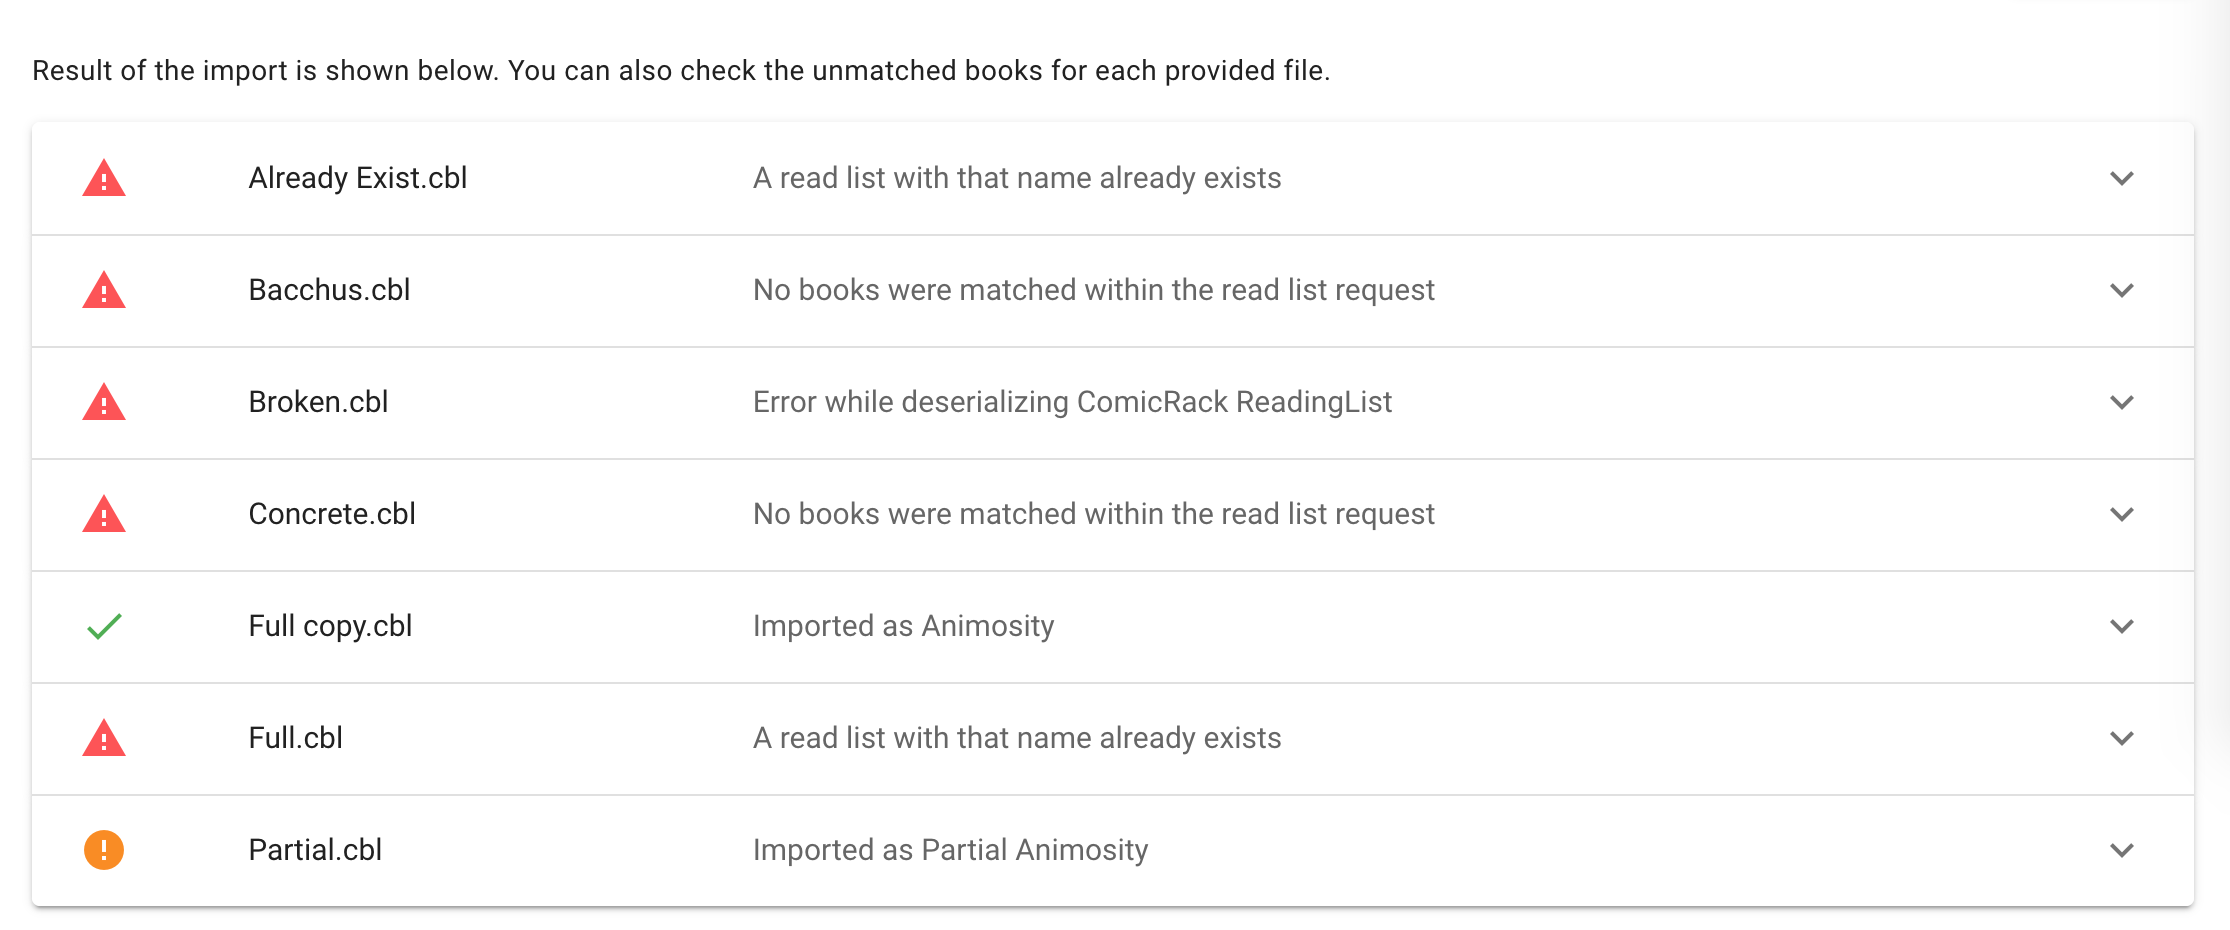
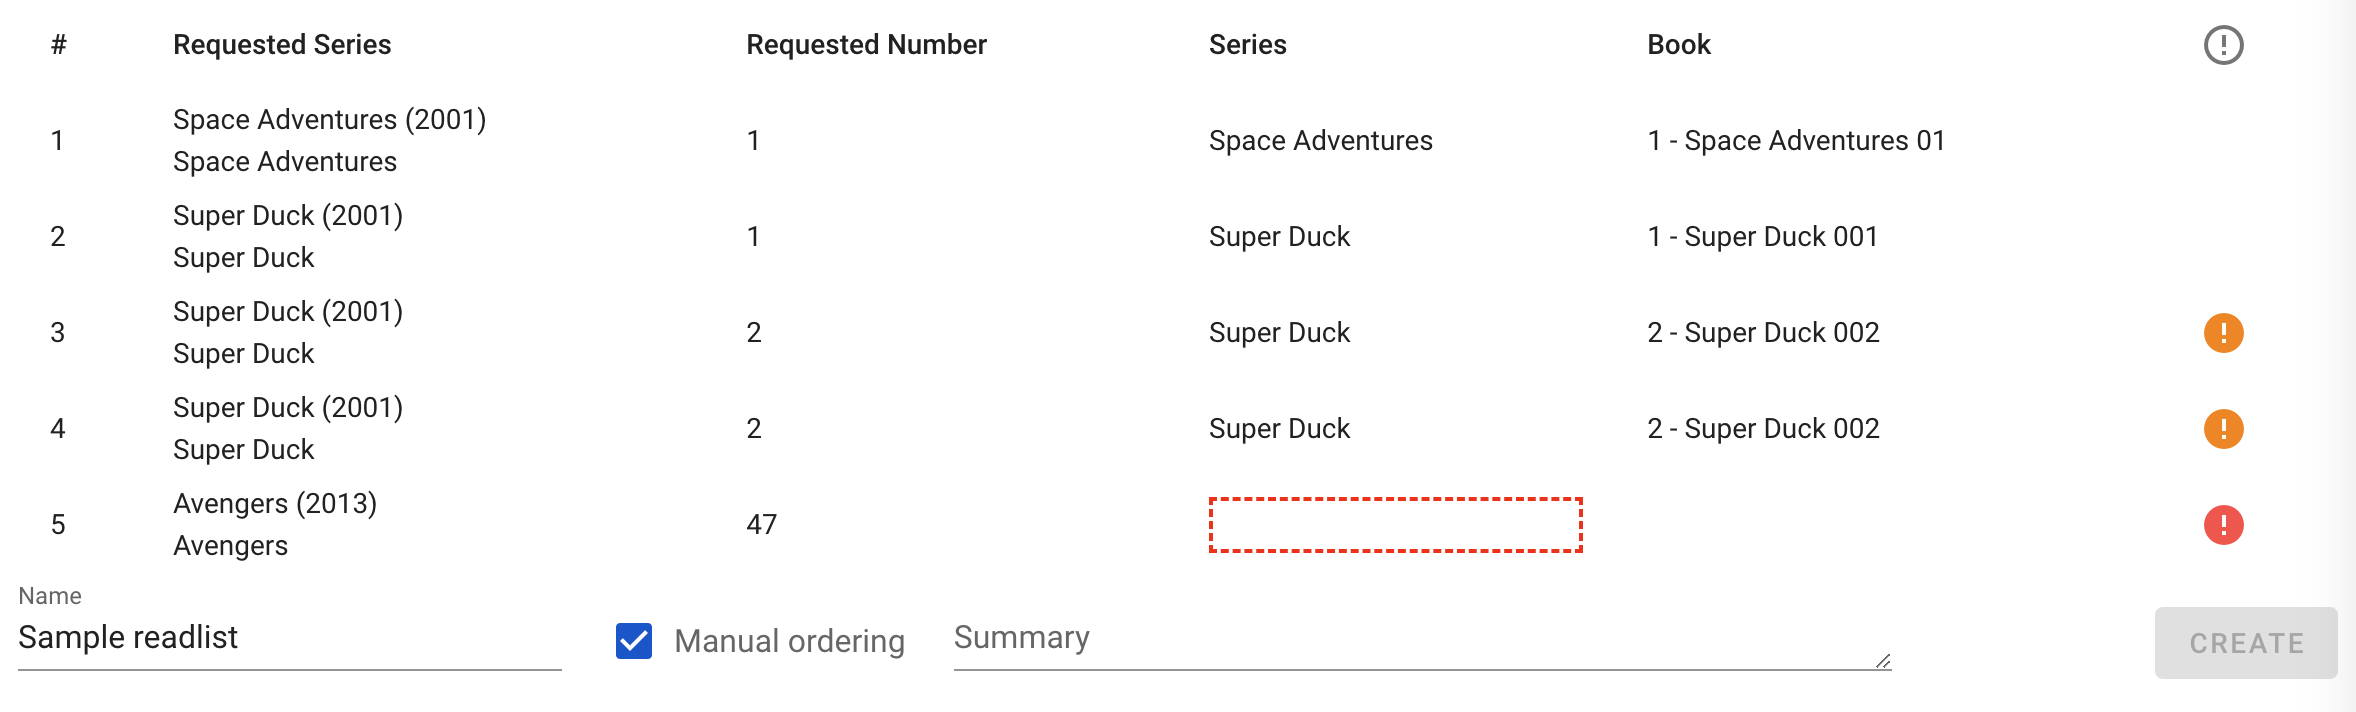
docs: update read list import

diff --git a/src/guides/readlists.md b/src/guides/readlists.md
@@ -83,9 +83,7 @@ This will not delete the items in the read list, nor your media files.
 
 ## Import read lists from ComicRack
 
-You can import ComicRack reading lists in `.cbl` format from the _Import > Read Lists_ screen.
-
-Select multiple files to import them all at once.
+You can import ComicRack reading lists in `.cbl` format from the _Import > Read List_ screen.
 
 <img src="/assets/media/guides/readlists/import.png" style="vertical-align: middle;max-height:400px" />
 
@@ -99,16 +97,13 @@ Select multiple files to import them all at once.
     - number of that book in the series
 
 Komga will try to match each book in the list in the following way:
-- check if a read list with that name already exists
-- since Komga does not have a `volume` metadata field, it will apply the [same transformation](/guides/scan-analysis-refresh.md#series-metadata) as when importing data from `ComicInfo.xml`
-- it will try to find a unique series by name
-- if a unique series is found, it will try to find a unique book in that series by book number
-- if a unique book is found, it will be added to the read list
+- part of a series named `Series` or `Series (Volume)`
+- where the number matches
 
-The result will be shown after you click the _Import_ button.
+The result will be shown after you click the _Match_ button.
 
 <img src="/assets/media/guides/readlists/import-results.png" style="vertical-align: middle;max-height:500px" />
 
-For each provided file you can see whether the import succeeded fully, partially, or failed. You can also expand the panel to get more details on why the import failed for each book.
+If some books are not matched, you can manually choose a series and a book. Duplicates and missing books will be shown with an error indicator on the right side.
 
-<img src="/assets/media/guides/readlists/import-results-details.png" style="vertical-align: middle;max-height:400px" />
+Click _Create_ to create the read list. If some books are unmatched, you can still create the read list (a confirmation dialog will pop-up).
